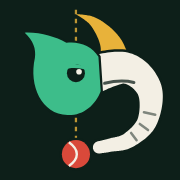
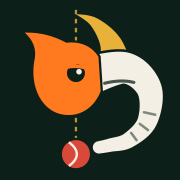
An opening that tells the idea, on every visit; an orange mark (#18)
* Illustrations that move like a person

The explainer's batter looked like a puffy cartoon sliding between four
poses: thick, evenly wide strokes, and a straight-line blend from pose to
pose that stretched and shrank the limbs on the way.

- The figure is drawn to adult proportions: limbs taper (a thigh wider at
  the hip than the knee), the trunk follows the shoulders and hips (broad
  when the chest faces the camera, never thinner than a chest edge-on) and
  draws in at the waist, a short neck, pads and gloves, a thin ink line
  with no seams at the joints, and no wobble filter.
- The home explainer plays the textbook defence's own continuous motion,
  frame by frame (60 a second, prepared on the server), slowed like a
  replay (setup at half speed, the stroke at 0.15x) and held at each of
  the four moments while its note draws on.
- The report lessons use the same figure.

Claude-Session: https://claude.ai/code/session_018maGUmC6fVNFGE92R1d1BB

* An athlete, not a mannequin: muscle, light, kit and the game around him

- Limbs follow muscle: thighs swell above the knee, forearms below the
  elbow; rounded shoulders and a trunk that tapers to the waist and tucks
  into the trousers.
- Light and shadow on every part (lit from the upper left, a firm shadow
  on the far side), so the figure has volume.
- Cricket kit: short sleeves over bare forearms, a collar, a helmet with a
  neck guard and the face behind the grille, gloves gripping the handle, a
[…]

diff --git a/src/components/icons.tsx b/src/components/icons.tsx
@@ -56,12 +56,12 @@ export function Mark({ size = 24 }: { size?: number }) {
       <path d="M31.73 34.39 L32.16 34.24 L32.70 34.04 L33.23 33.83 L33.77 33.61 L34.31 33.37 L34.88 33.12 L35.46 32.86 L36.05 32.59 L36.66 32.32 L37.28 32.05 L37.90 31.78 L38.52 31.51 L39.14 31.26 L39.75 31.01 L40.35 30.78 L40.92 30.57 L41.47 30.38 L41.97 30.21 L42.43 30.07 L42.84 29.96 L43.17 29.88 L43.41 29.81 L43.54 29.76 L43.59 29.72 L43.70 29.70 L43.88 29.70 L44.07 29.71 L44.28 29.74 L44.50 29.79 L44.74 29.86 L44.99 29.95 L45.24 30.05 L45.50 30.18 L45.77 30.32 L46.04 30.47 L46.30 30.65 L46.57 30.83 L46.83 31.03 L47.08 31.24 L47.33 31.45 L47.56 31.68 L47.79 31.91 L48.00 32.14 L48.20 32.37 L48.38 32.60 L48.55 32.82 L48.70 33.04 L48.83 33.22 L48.93 33.37 L49.02 33.54 L49.12 33.76 L49.21 34.01 L49.30 34.30 L49.38 34.62 L49.46 34.96 L49.52 35.33 L49.57 35.72 L49.61 36.13 L49.64 36.54 L49.65 36.97 L49.66 37.40 L49.65 37.84 L49.64 38.27 L49.61 38.71 L49.58 39.13 L49.53 39.55 L49.48 39.96 L49.42 40.35 L49.35 40.73 L49.28 41.08 L49.20 41.41 L49.13 41.70 L49.07 41.93 L48.99 42.16 L48.90 42.40 L48.79 42.65 L48.66 42.90 L48.52 43.15 L48.36 43.41 L48.18 43.67 L47.99 43.93 L47.79 44.19 L47.57 44.46 L47.34 44.72 L47.11 44.97 L46.86 45.23 L46.61 45.47 L46.35 45.72 L46.09 45.96 L45.83 46.19 L45.57 46.42 L45.30 46.64 L45.04 46.86 L44.78 47.06 L44.52 47.26 L44.29 47.44 L44.12 47.58 L43.95 47.69 L43.78 47.80 L43.60 47.91 L43.41 48.01 L43.21 48.10 L43.01 48.19 L42.79 48.27 L42.57 48.35 L42.34 48.43 L42.11 48.50 L41.86 48.56 L41.62 48.62 L41.36 48.68 L41.11 48.74 L40.85 48.80 L40.58 48.85 L40.31 48.91 L40.04 48.96 L39.77 49.02 L39.49 49.08 L39.21 49.14 L38.92 49.22 L38.66 49.29 L38.43 49.36 L38.23 49.41 L38.03 49.47 L37.84 49.53 L37.64 49.58 L37.45 49.63 L37.26 49.68 L37.08 49.73 L36.90 49.77 L36.72 49.82 L36.54 49.86 L36.38 49.90 L36.21 49.93 L36.05 49.97 L35.90 50.00 L35.75 50.04 L35.61 50.07 L35.47 50.10 L35.34 50.12 L35.22 50.15 L35.10 50.17 L34.98 50.20 L34.87 50.22 L34.78 50.24 A2.20 2.20 0 0 0 35.62 54.56 L35.70 54.54 L35.79 54.53 L35.89 54.52 L35.99 54.50 L36.11 54.48 L36.24 54.46 L36.38 54.44 L36.53 54.42 L36.69 54.40 L36.85 54.38 L37.02 54.35 L37.20 54.33 L37.38 54.30 L37.58 54.27 L37.77 54.24 L37.97 54.21 L38.18 54.18 L38.40 54.15 L38.61 54.11 L38.84 54.07 L39.06 54.03 L39.29 53.99 L39.53 53.95 L39.74 53.91 L39.93 53.88 L40.11 53.86 L40.31 53.83 L40.53 53.81 L40.77 53.79 L41.02 53.77 L41.29 53.75 L41.57 53.72 L41.86 53.69 L42.17 53.66 L42.48 53.63 L42.81 53.59 L43.15 53.54 L43.49 53.48 L43.85 53.42 L44.21 53.34 L44.59 53.25 L44.96 53.15 L45.35 53.03 L45.74 52.89 L46.13 52.74 L46.53 52.56 L46.93 52.37 L47.31 52.16 L47.64 51.97 L47.96 51.78 L48.29 51.59 L48.64 51.38 L48.99 51.16 L49.35 50.93 L49.72 50.69 L50.09 50.44 L50.47 50.17 L50.85 49.89 L51.23 49.60 L51.61 49.30 L51.99 48.98 L52.37 48.64 L52.74 48.30 L53.11 47.93 L53.47 47.55 L53.83 47.14 L54.17 46.72 L54.50 46.28 L54.82 45.82 L55.13 45.33 L55.41 44.82 L55.67 44.30 L55.89 43.80 L56.10 43.31 L56.30 42.79 L56.49 42.26 L56.67 41.72 L56.84 41.16 L57.00 40.59 L57.15 40.01 L57.29 39.42 L57.42 38.82 L57.53 38.21 L57.63 37.59 L57.72 36.97 L57.79 36.34 L57.84 35.70 L57.87 35.06 L57.89 34.41 L57.88 33.76 L57.84 33.11 L57.78 32.44 L57.68 31.78 L57.55 31.11 L57.38 30.43 L57.17 29.78 L56.95 29.17 L56.71 28.60 L56.44 28.03 L56.16 27.46 L55.85 26.91 L55.52 26.36 L55.17 25.81 L54.80 25.27 L54.40 24.74 L53.99 24.22 L53.55 23.71 L53.08 23.20 L52.60 22.71 L52.09 22.24 L51.55 21.78 L50.99 21.33 L50.40 20.91 L49.78 20.50 L49.13 20.12 L48.46 19.77 L47.75 19.44 L47.02 19.15 L46.25 18.90 L45.41 18.68 L44.46 18.51 L43.50 18.42 L42.58 18.38 L41.69 18.39 L40.81 18.43 L39.94 18.50 L39.08 18.59 L38.23 18.70 L37.38 18.83 L36.55 18.97 L35.72 19.12 L34.91 19.27 L34.13 19.43 L33.36 19.60 L32.62 19.76 L31.91 19.91 L31.24 20.06 L30.62 20.20 L30.04 20.32 L29.53 20.43 L29.09 20.51 L28.74 20.57 L28.50 20.59 L28.27 20.61 Z" fill="#f3efe4" stroke="#0d1f19" strokeWidth="1.8" paintOrder="stroke" />
       <path d="M51.18 39.91 L55.19 40.80 M49.71 44.05 L52.63 46.25 M46.62 47.26 L48.56 49.86 " stroke="#0d1f19" strokeWidth="0.9" strokeLinecap="round" opacity="0.5" />
       <path d="M37.2 29.6 C40.8 28.7,44.4 28.5,47.6 29.3" stroke="#0d1f19" strokeWidth="1.1" strokeLinecap="round" fill="none" opacity="0.75" />
-      <path d="M35 20.2 C32.6 16.2,28 14.6,23.6 15.2 C19.5 13,14.5 11.4,8.8 11.6 C11.8 14.3,12.9 17.4,12.4 20.6 C10.2 30.5,14.8 40.6,24 40.9 C29.6 41.1,33.9 37.4,35.8 32.4 Z" fill="#3dbd8a" stroke="#0d1f19" strokeWidth="1.6" paintOrder="stroke" />
+      <path d="M35 20.2 C32.6 16.2,28 14.6,23.6 15.2 C19.5 13,14.5 11.4,8.8 11.6 C11.8 14.3,12.9 17.4,12.4 20.6 C10.2 30.5,14.8 40.6,24 40.9 C29.6 41.1,33.9 37.4,35.8 32.4 Z" fill="#ff7a1f" stroke="#0d1f19" strokeWidth="1.6" paintOrder="stroke" />
       <circle cx="27" cy="54.8" r="5" fill="#d9493a" stroke="#0d1f19" strokeWidth="1.6" paintOrder="stroke" />
       <path d="M24.50 50.60 C28.25 53.30,28.25 56.30,24.50 59.00" stroke="#f3efe4" strokeWidth="0.85" fill="none" />
       <circle cx="27" cy="26" r="3.2" fill="#0d1f19" />
       <circle cx="28.1" cy="25.5" r="1" fill="#f3efe4" />
-      <path d="M22.40 21.80 L31.40 23.80 L31.40 25.10 C28.80 24.10,25.40 23.80,22.40 24.90 Z" fill="#3dbd8a" />
+      <path d="M22.40 21.80 L31.40 23.80 L31.40 25.10 C28.80 24.10,25.40 23.80,22.40 24.90 Z" fill="#ff7a1f" />
     </svg>
   );
 }

diff --git a/src/app/globals.css b/src/app/globals.css
@@ -410,11 +410,11 @@
   width: 2px;
 }
 .btn-landing {
-  background: #3dbd8a;
-  color: #06130d;
+  background: #ff7a1f;
+  color: #1a0b00;
 }
 .btn-landing:hover {
-  background: #5bcd9f;
+  background: #ff9346;
 }
 .btn-landing-ghost {
   border: 1px solid rgb(243 239 228 / 0.28);
@@ -424,14 +424,15 @@
   background: rgb(243 239 228 / 0.08);
 }
 
-/* The landing page's opening: mark in, line down, curtain open. */
+/* Align's opening: the mark, the line, the name, the idea, then the curtain. ~2.4 s. */
 .intro {
   position: fixed;
   inset: 0;
   z-index: 100;
   pointer-events: none;
   perspective: 1200px;
-  animation: intro-gone 0s linear 1.3s forwards;
+  color: #f3efe4;
+  animation: intro-gone 0s linear 2.45s forwards;
 }
 .intro-half {
   position: absolute;
@@ -442,17 +443,17 @@
     radial-gradient(120% 70% at 50% 40%, #153a2b 0%, transparent 65%),
     #08130f;
   backface-visibility: hidden;
-  will-change: transform, opacity;
+  will-change: transform;
 }
 .intro-left {
   left: 0;
   transform-origin: 0% 50%;
-  animation: intro-door-left 0.6s cubic-bezier(0.6, 0, 0.3, 1) 0.66s forwards;
+  animation: intro-door-left 0.6s cubic-bezier(0.6, 0, 0.3, 1) 1.82s forwards;
 }
 .intro-right {
   right: 0;
   transform-origin: 100% 50%;
-  animation: intro-door-right 0.6s cubic-bezier(0.6, 0, 0.3, 1) 0.66s forwards;
+  animation: intro-door-right 0.6s cubic-bezier(0.6, 0, 0.3, 1) 1.82s forwards;
 }
 .intro-line {
   position: absolute;
@@ -466,40 +467,82 @@
   transform: scaleY(0);
   will-change: transform, opacity;
   animation:
-    intro-line-down 0.38s cubic-bezier(0.2, 0.8, 0.2, 1) 0.28s forwards,
-    intro-fade 0.2s ease-in 0.66s forwards;
+    intro-line-down 0.4s cubic-bezier(0.2, 0.8, 0.2, 1) 0.3s forwards,
+    intro-line-dim 0.3s ease 0.62s forwards,
+    intro-fade 0.2s ease-in 1.8s forwards;
+}
+.intro-stage {
+  position: absolute;
+  inset: 0;
+  display: flex;
+  flex-direction: column;
+  align-items: center;
+  justify-content: center;
+  gap: 0.9rem;
+  padding: 0 1.5rem 6vh;
+  text-align: center;
+  will-change: transform, opacity;
+  animation: intro-stage-out 0.4s cubic-bezier(0.5, 0, 0.75, 0) 1.74s forwards;
 }
 .intro-mark {
-  position: absolute;
-  left: 50%;
-  top: 50%;
   border-radius: 30px;
-  box-shadow: 0 0 70px rgb(61 189 138 / 0.35);
-  transform: translate(-50%, -50%);
-  will-change: transform, opacity;
-  animation:
-    intro-mark-in 0.55s cubic-bezier(0.2, 0.8, 0.2, 1) both,
-    intro-mark-out 0.36s cubic-bezier(0.5, 0, 0.75, 0) 0.64s forwards;
+  box-shadow: 0 0 70px rgb(255 122 31 / 0.35);
+  animation: intro-mark-in 0.55s cubic-bezier(0.2, 0.8, 0.2, 1) both;
+}
+.intro-word {
+  font-size: 2.6rem;
+  font-weight: 650;
+  letter-spacing: -0.03em;
+  line-height: 1;
+  animation: intro-word-in 0.5s cubic-bezier(0.2, 0.8, 0.2, 1) 0.55s both;
+}
+.intro-tag {
+  display: flex;
+  flex-direction: column;
+  gap: 0.15rem;
+  font-size: 1.4rem;
+  font-weight: 600;
+  letter-spacing: -0.01em;
+}
+.intro-t1 {
+  animation: intro-rise-in 0.42s cubic-bezier(0.2, 0.8, 0.2, 1) 0.88s both;
+}
+.intro-t2 {
+  color: #ff7a1f;
+  animation: intro-rise-in 0.42s cubic-bezier(0.2, 0.8, 0.2, 1) 1.14s both;
 }
 @keyframes intro-mark-in {
   from {
-    transform: translate(-50%, -50%) rotateY(-200deg) scale(0.5);
+    transform: rotateY(-200deg) scale(0.5);
     opacity: 0;
   }
-  to {
-    transform: translate(-50%, -50%) rotateY(0deg) scale(1);
-    opacity: 1;
+}
+@keyframes intro-word-in {
+  from {
+    opacity: 0;
+    letter-spacing: 0.35em;
   }
 }
-@keyframes intro-mark-out {
+@keyframes intro-rise-in {
+  from {
+    opacity: 0;
+    transform: translateY(10px);
+  }
+}
+@keyframes intro-stage-out {
   to {
-    transform: translate(-50%, -50%) scale(1.9);
+    transform: scale(1.18);
     opacity: 0;
   }
 }
 @keyframes intro-line-down {
   to {
     transform: scaleY(1);
+  }
+}
+@keyframes intro-line-dim {
+  to {
+    opacity: 0.3;
   }
 }
 @keyframes intro-fade {
@@ -522,9 +565,9 @@
     visibility: hidden;
   }
 }
-/* What the curtain opens onto rises into place as it opens. */
-.intro-after {
-  animation: intro-rise 0.7s cubic-bezier(0.2, 0.8, 0.2, 1) 0.74s both;
+/* What the curtain opens onto rises into place as it opens (only when the curtain plays). */
+.intro ~ section .intro-after {
+  animation: intro-rise 0.7s cubic-bezier(0.2, 0.8, 0.2, 1) 1.9s both;
 }
 @keyframes intro-rise {
   from {
@@ -533,10 +576,25 @@
   }
 }
 @media (prefers-reduced-motion: reduce) {
+  /* No spin, no swing: the name and the idea, still, then the whole curtain fades. */
   .intro {
+    animation:
+      intro-fade 0.4s ease 1.7s forwards,
+      intro-gone 0s linear 2.1s forwards;
+  }
+  .intro-half,
+  .intro-mark,
+  .intro-word,
+  .intro-t1,
+  .intro-t2,
+  .intro-stage {
+    animation: none;
+  }
+  .intro-line {
     display: none;
   }
-  .intro-after {
+  .intro ~ section .intro-after {
     animation: none;
   }
 }
+

diff --git a/src/components/landing/intro.tsx b/src/components/landing/intro.tsx
@@ -1,22 +1,45 @@
+"use client";
+
+import { useState } from "react";
 import { Mark } from "@/components/icons";
 
+// The app's home plays it once per visit (when Align is opened from the home screen);
+// the landing page plays it every time it is opened.
+let played = false;
+
 /**
- * The landing page's opening, like a film studio's ident before the feature: the mark
- * spins in, its gold line runs the height of the screen, then the curtain splits along
- * that line and swings open onto the page. About 1.3 s, pure CSS (it plays before any
- * script loads and costs nothing to run), never blocks a tap, and is skipped for anyone
- * who prefers reduced motion.
+ * Align's opening, like a film studio's ident before the feature, telling the idea before
+ * the page does: the mark spins in, its gold line drops from the eye to the ball, the name
+ * appears, then "Eyes over the ball. Everything in line.", and the curtain splits along
+ * the line and swings open onto the page. About 2.4 s, all CSS (it starts before any
+ * script loads and runs on the compositor), and it never blocks a tap. With reduced
+ * motion asked for, it shows still and fades.
  */
-export function Intro() {
+export function Intro({ always = false }: { always?: boolean }) {
+  const [show] = useState(() => {
+    // The server always draws it (each page is prepared on its own); the browser keeps count.
+    if (typeof window === "undefined") return true;
+    const first = !played;
+    played = true;
+    return always || first;
+  });
+  if (!show) return null;
   return (
     <div className="intro" aria-hidden>
       <div className="intro-half intro-left" />
       <div className="intro-half intro-right" />
       <div className="intro-line" />
-      <div className="intro-mark">
-        <span className="block overflow-hidden rounded-[30px]">
-          <Mark size={120} />
-        </span>
+      <div className="intro-stage">
+        <div className="intro-mark">
+          <span className="block overflow-hidden rounded-[30px]">
+            <Mark size={112} />
+          </span>
+        </div>
+        <p className="intro-word">Align</p>
+        <p className="intro-tag">
+          <span className="intro-t1">Eyes over the ball.</span>
+          <span className="intro-t2">Everything in line.</span>
+        </p>
       </div>
     </div>
   );

diff --git a/src/app/page.tsx b/src/app/page.tsx
@@ -46,7 +46,7 @@ export default function Landing() {
 
   return (
     <main id="main">
-      <Intro />
+      <Intro always />
       {/* 1 · The line: a full first screen on the brand's own ground */}
       <section className="landing-dark relative overflow-hidden">
         <div className="landing-grid absolute inset-0" aria-hidden />
@@ -65,7 +65,7 @@ export default function Landing() {
             <h1 className="display mt-5 text-[2.3rem] leading-[1.02] min-[400px]:text-[2.5rem] sm:text-7xl lg:text-[5.2rem]">
               Eyes over the ball.
               <br />
-              <span className="text-[#3dbd8a]">Everything in line.</span>
+              <span className="text-[#ff7a1f]">Everything in line.</span>
             </h1>
             <p className="lp-muted mt-6 max-w-xl text-base sm:text-lg">
               Align watches your forward defence and shows whether your head, hands and front foot lined up with the ball. Then it gives you the one thing to
@@ -82,7 +82,7 @@ export default function Landing() {
             </ul>
           </div>
           <figure className="overflow-hidden rounded-[22px] shadow-[0_30px_80px_-30px_rgb(0_0_0/0.8)] ring-1 ring-white/10">
-            <AlignHero pose={story.poses[hero]!} ballFrom={story.poses[hero - 1]?.ball} after={1} />
+            <AlignHero pose={story.poses[hero]!} ballFrom={story.poses[hero - 1]?.ball} after={2.1} />
           </figure>
         </div>
       </section>

diff --git a/src/app/home/page.tsx b/src/app/home/page.tsx
@@ -3,6 +3,7 @@ import Link from "next/link";
 import { sampleAnalysis, textbookStory } from "@/lib/demo";
 import { ShotStory } from "@/components/home/shot-story";
 import { Reveal } from "@/components/common/reveal";
+import { Intro } from "@/components/landing/intro";
 import { Check, Swap, Question, CameraOff, Chevron, Record as RecordIcon, Target, Trend } from "@/components/icons";
 
 // The app's home (the landing page at "/" tells newcomers what Align stands for): the next
@@ -24,6 +25,7 @@ export default function AppHome() {
 
   return (
     <div>
+      <Intro />
       {/* The app's home: straight to the next shot */}
       <section className="relative overflow-hidden">
         <div className="absolute inset-x-0 top-0 h-[360px] grid-bg opacity-70" aria-hidden />
